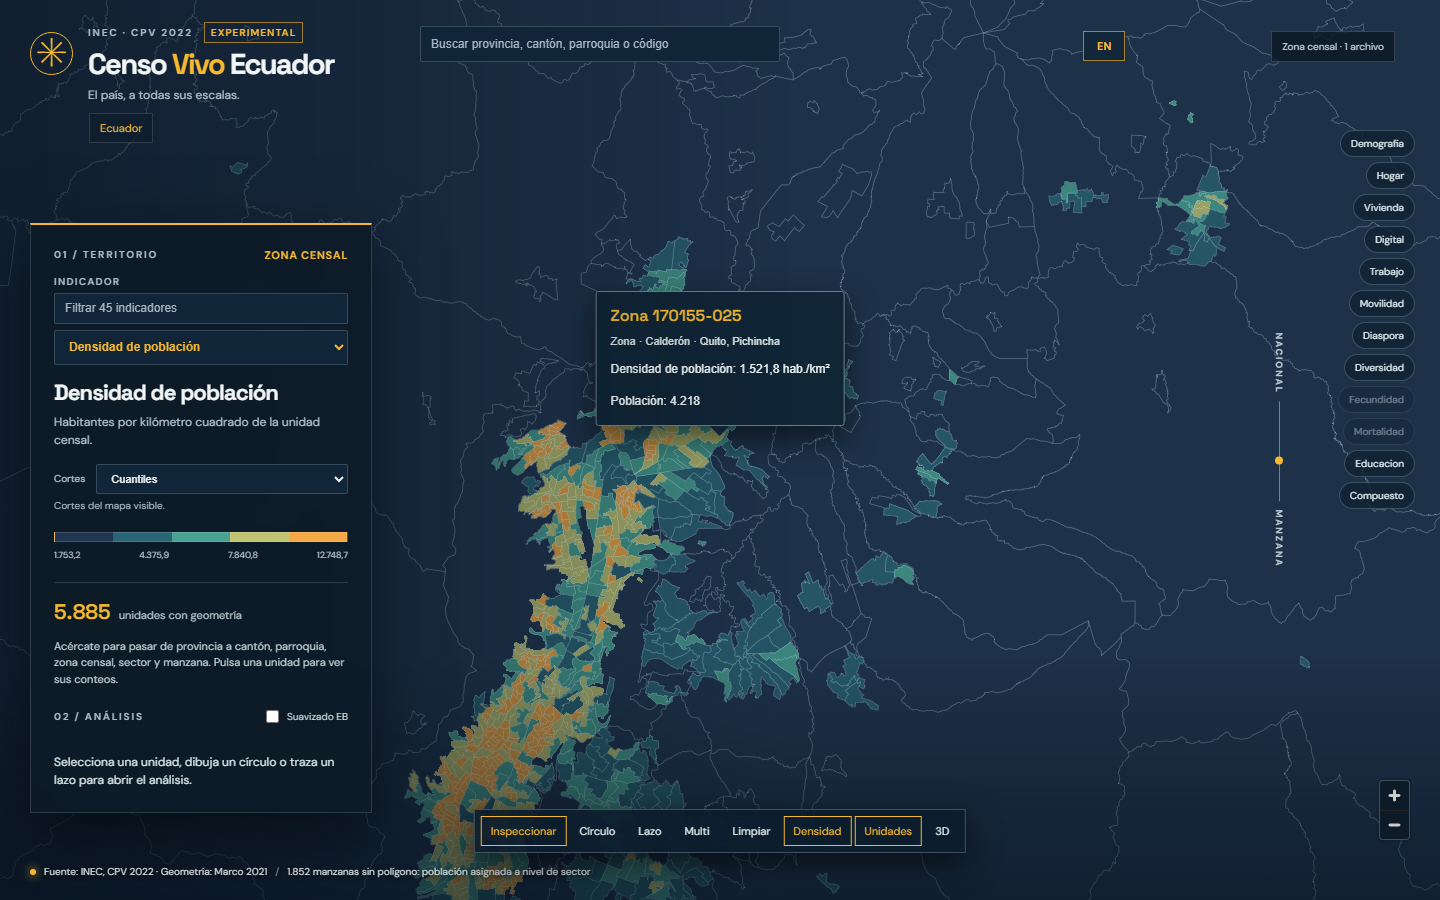
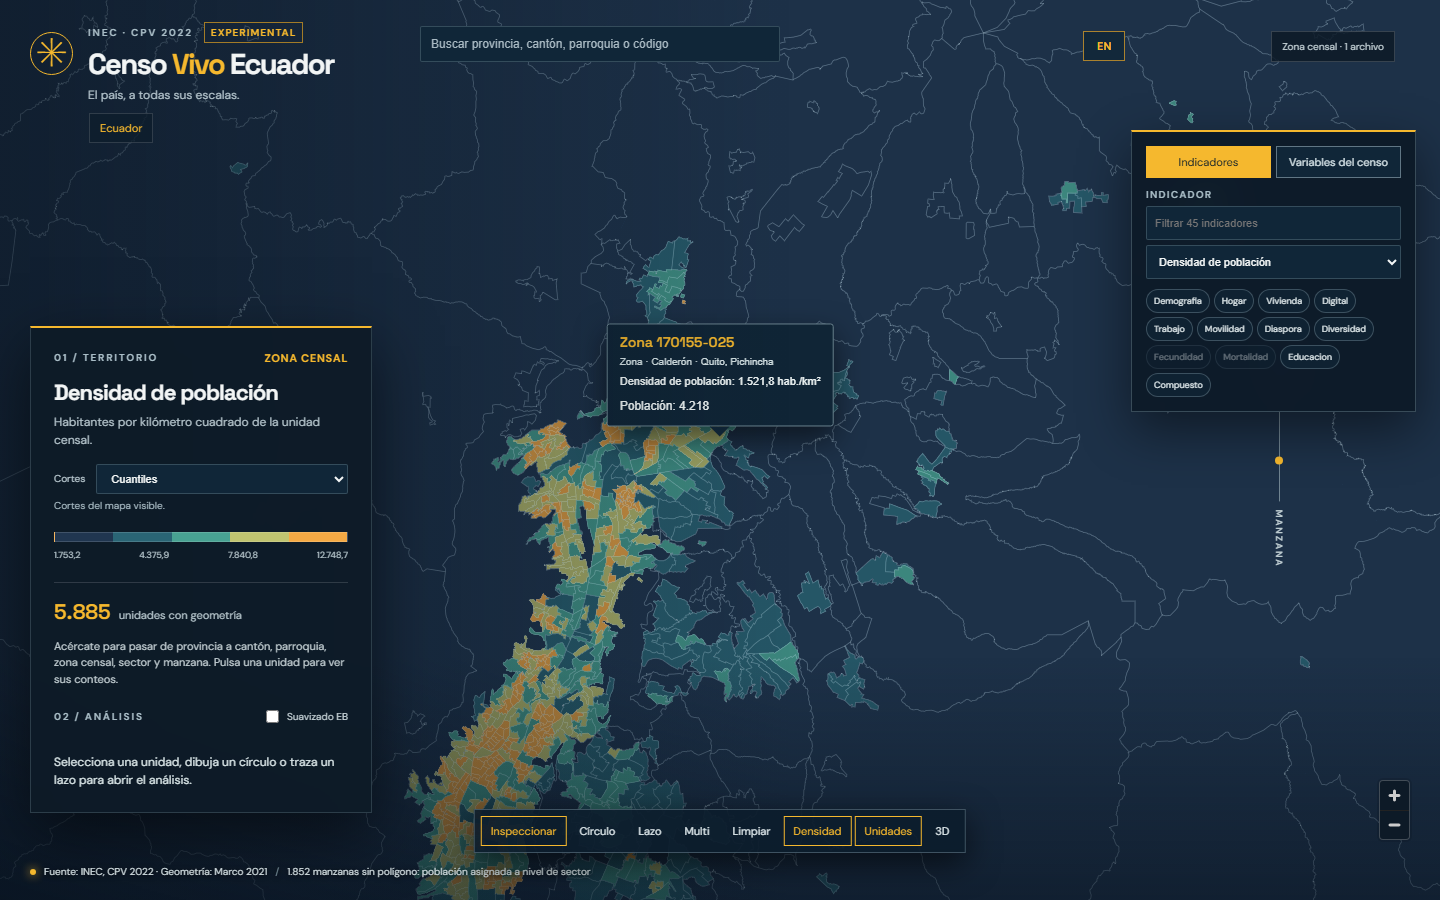
fix(ui): keep map hover tooltip compact

diff --git a/web/src/map.ts b/web/src/map.ts
@@ -1143,7 +1143,7 @@ async function start() {
     if (hoveredSignature !== signature) {
       hoverPopup?.remove()
       hoverPopup = new maplibregl.Popup({ closeButton: false, closeOnClick: false,
-        maxWidth: '320px', offset: 14 })
+        className: 'unit-hover-popup', maxWidth: '240px', offset: 14 })
         .setLngLat(event.lngLat)
         .setDOMContent(unitCard(currentLevel, key, feature!.properties as Record<string, unknown>))
         .addTo(map)
@@ -1163,13 +1163,9 @@ async function start() {
     hoverPopup?.remove(); hoverPopup = null; hoveredSignature = ''
     await selection.click(feature)
     if (selection.mode === 'multi') return
-    const level = currentLevel
     selectedKey = String(p.unit_key)
     renderBreadcrumb()
     saveHash(map)
-    const card = unitCard(level, selectedKey, p as Record<string, unknown>)
-    new maplibregl.Popup({ maxWidth: '290px' }).setLngLat(event.lngLat)
-      .setDOMContent(card).addTo(map)
   })
   map.on('error', event => { statusEl.textContent = `Error de cartografía: ${event.error?.message ?? 'desconocido'}` })
 }

diff --git a/web/src/style.css b/web/src/style.css
@@ -65,6 +65,7 @@ h1,h2,p{margin:0}h1,h2{font-family:'Space Grotesk',sans-serif}h1{font-size:29px;
 .unit-popup .unit-context{text-transform:none;letter-spacing:0;font-size:11px;color:#d4e1e4}
 .unit-popup .unit-value,.unit-popup .unit-population{font-size:12px;margin-top:3px}
 .unit-popup .unit-note{font-size:10px;line-height:1.35;color:#a7b8c0;margin-top:3px}
+.unit-hover-popup{max-width:240px!important;pointer-events:none}.unit-hover-popup .maplibregl-popup-content{padding:10px 12px!important;max-width:240px;overflow-wrap:anywhere}.unit-hover-popup .unit-popup{gap:3px}.unit-hover-popup .unit-title{font-size:14px}.unit-hover-popup .unit-context{font-size:10px;line-height:1.3}.unit-hover-popup .unit-value,.unit-hover-popup .unit-population{font-size:11px;line-height:1.35}
 .analysis-place-context{color:#c6d9df;font-size:11px;margin:0 0 8px}
 .analysis-place-metric,.analysis-place-population{margin:3px 0;font-size:11px}
 .analysis-place-note{display:block;color:#a7b8c0;font-size:10px}

diff --git a/HANDOFF.md b/HANDOFF.md
@@ -3,8 +3,8 @@
 ## Estado
 
 - Fase actual: **2 terminada y desplegada**. Los [PR #48](https://github.com/diegocevallos-tech/censo-vivo-ecuador/pull/48), [#49](https://github.com/diegocevallos-tech/censo-vivo-ecuador/pull/49) y [#50](https://github.com/diegocevallos-tech/censo-vivo-ecuador/pull/50) se fusionaron en ese orden con squash, cada uno tras rebase sobre `main` y CI verde. La auditoría independiente [#46](https://github.com/diegocevallos-tech/censo-vivo-ecuador/pull/46) sigue en borrador y su rama no se toca.
-- [Producción](https://diegocevallos-tech.github.io/censo-vivo-ecuador/) tiene zona censal I04 mediante el [deploy 36249369071](https://github.com/diegocevallos-tech/censo-vivo-ecuador/actions/runs/36249369071). El Release público vigente es [`data-derived-v2d`](https://github.com/diegocevallos-tech/censo-vivo-ecuador/releases/tag/data-derived-v2d), 447.948.448 bytes. Los datos pesados permanecen fuera de Git.
-- Subtarea actual: rama `feat/fase-2c-variables` desde `main`, tras fusionar los [PR #55](https://github.com/diegocevallos-tech/censo-vivo-ecuador/pull/55) y [#57](https://github.com/diegocevallos-tech/censo-vivo-ecuador/pull/57). El [PR #53](https://github.com/diegocevallos-tech/censo-vivo-ecuador/pull/53) de auditoría sigue abierto por separado. **2C es una fase de producto: el PR debe quedar abierto para aprobación.**
+- [Producción](https://diegocevallos-tech.github.io/censo-vivo-ecuador/) sirve el Release público [`data-derived-v2e`](https://github.com/diegocevallos-tech/censo-vivo-ecuador/releases/tag/data-derived-v2e), 424.478.505 bytes. El [deploy 36268990316](https://github.com/diegocevallos-tech/censo-vivo-ecuador/actions/runs/36268990316) está verde. Incluye zona censal I04 y el catálogo de variables. Los datos pesados permanecen fuera de Git.
+- Subtarea actual: corrección visual del tooltip en `fix/tooltip-compacto`, bajo la regla de autonomía del usuario. El [PR #53](https://github.com/diegocevallos-tech/censo-vivo-ecuador/pull/53) de auditoría sigue abierto por separado. La capa municipal se hará después en un PR que requiere aprobación.
 
 ## Pasos terminados
 
@@ -42,14 +42,16 @@
 32. Se abrió el [PR #58](https://github.com/diegocevallos-tech/censo-vivo-ecuador/pull/58) y se adjuntó a esta tarea. Los checks [públicos](https://github.com/diegocevallos-tech/censo-vivo-ecuador/actions/runs/36265210837) (1 min 07 s) y [devcontainer](https://github.com/diegocevallos-tech/censo-vivo-ecuador/actions/runs/36265210809) (4 min 24 s) quedaron verdes. El [comentario de revisión](https://github.com/diegocevallos-tech/censo-vivo-ecuador/pull/58#issuecomment-5849094442) incluye tamaños, QA y capturas. **Esperar aprobación del usuario; no fusionar ni activar v2e en producción.**
 33. El E2E ampliado halló una excepción intermitente de MapLibre al pasar de porcentaje a conteo y densidad después de un círculo. La selección de variables ahora filtra las capas por claves oficiales, sin cambiar opacidad mediante estado de feature; la densidad asigna valores precomputados de conteo/área. Al redimensionar un círculo se restaura el filtro para poder incorporar otras unidades; el modo múltiple permite añadirlas. Tres E2E completos consecutivos de V03 pasaron sin errores JS: seis barras, rangos HTTP 206, círculo ampliado de 393 a 600 sectores, dos unidades en modo múltiple y retorno a Indicadores. [Captura de densidad](docs/capturas/fase2c_variables_densidad.png). El conteo de personas estimadas se redondea en pantalla. El arreglo quedó en `a61f067`, publicado en el PR #58; lint, build, 15 pytest y 13 Vitest pasaron. El diff `origin/main..HEAD` no contiene blobs mayores de 1 MB. CI del nuevo commit pendiente.
 34. Los [checks públicos](https://github.com/diegocevallos-tech/censo-vivo-ecuador/actions/runs/36267467041) (59 s) y [devcontainer](https://github.com/diegocevallos-tech/censo-vivo-ecuador/actions/runs/36267466960) (3 min 52 s) quedaron verdes con el arreglo. El cuerpo del PR #58 se actualizó con la captura de densidad y la prueba de multiselección. Falta comentar los resultados al cierre de la CI del último commit documental y esperar aprobación; producción permanece en v2d.
+35. El usuario aprobó el [PR #58](https://github.com/diegocevallos-tech/censo-vivo-ecuador/pull/58). Se fusionó con squash en `d0f4b07` y se borró la rama. El [PR #56](https://github.com/diegocevallos-tech/censo-vivo-ecuador/pull/56) de Antigravity, solo `docs/fuentes/parroquias_urbanas.md` y `HANDOFF_ANTIGRAVITY.md`, se marcó listo desde borrador y se fusionó con squash en `b82d8f4`, sin editar su contenido; se borró la rama. El [deploy de producción v2e](https://github.com/diegocevallos-tech/censo-vivo-ecuador/actions/runs/36268990316) pasó. HTTP 200 para `meta/variables.json`, PMTiles y Parquet de zona; Playwright mostró **ZONA CENSAL**, 137 opciones en el selector de variables (136 variables más la opción vacía) y cero errores JS.
+36. En `fix/tooltip-compacto`, el hover se redujo a ≤240 px y sigue el cursor; el clic deja el detalle en el panel. [Informe](docs/qa/tooltip_compacto.md) y siete E2E locales verdes (provincia, cantón, parroquia, zona, sector, nota `min_level` y variable). El PR de corrección visual está pendiente de abrir y, tras CI verde, puede fusionarse y desplegarse bajo la regla de autonomía. No cambian datos, indicadores, metodología, agregación ni alcance.
 
 ## Siguiente comando exacto
 
 ```sh
-gh pr view 58 -R diegocevallos-tech/censo-vivo-ecuador --json state,statusCheckRollup,mergeable
+git add HANDOFF.md docs/qa/tooltip_compacto.md docs/capturas/tooltip-* web/src/map.ts web/src/style.css web/scripts/test-tooltips.mjs && git commit -m "fix(ui): keep map hover tooltip compact" && git push -u origin fix/tooltip-compacto
 ```
 
-Comentar la corrección en #58 tras la CI documental. **Solo tras la aprobación del usuario:** fusionar #58 con squash si sigue verde y desplegar v2e a producción; después avanzar a #51 móvil. Mientras tanto, el PR 2C queda abierto y producción permanece en v2d. Mantener #53 abierto y no tocar `feat/auditoria-1b2`. Esperar el informe de Antigravity antes de añadir límites municipales urbanos.
+Abrir el PR del tooltip, esperar CI verde, adjuntar capturas, fusionar con squash y confirmar producción. Después preparar la capa municipal de las seis ciudades y solicitar aprobación antes de fusionarla. Solo después se aborda #51 móvil. Mantener #53 abierto y no tocar `feat/auditoria-1b2`.
 
 ## Archivos tocados en 2C
 

diff --git a/docs/qa/tooltip_compacto.md b/docs/qa/tooltip_compacto.md
@@ -1,0 +1,21 @@
+# Tooltip compacto · corrección de UI
+
+El tooltip de hover sigue el cursor y tiene un ancho máximo de 240 px. Presenta
+nombre o código oficial, ruta, valor activo, población y las notas de escala o
+manzanas sin polígono cuando corresponden. El clic deja el detalle en el panel
+de análisis y ya no abre un segundo popup sobre el mapa.
+
+No cambian los datos, `indicators.yaml`, la metodología ni la agregación.
+
+## Verificación
+
+[`test-tooltips.mjs`](../../web/scripts/test-tooltips.mjs) pasó siete casos locales
+sin errores JavaScript. La prueba comprueba que el tooltip sigue el cursor,
+que cada popup mide ≤240 px, y que al pulsar una parroquia o una variable
+el detalle aparece en el panel. Anchos medidos: provincia 240, cantón 240,
+parroquia 240, zona 226,6, sector 225 y variable sectorial 240 px.
+
+[Resultado E2E](../capturas/tooltip-results.json) ·
+[captura parroquia](../capturas/tooltip-parroquia.png) ·
+[captura variable](../capturas/tooltip-variable.png) ·
+[panel tras clic](../capturas/tooltip-analisis-parroquia.png).
